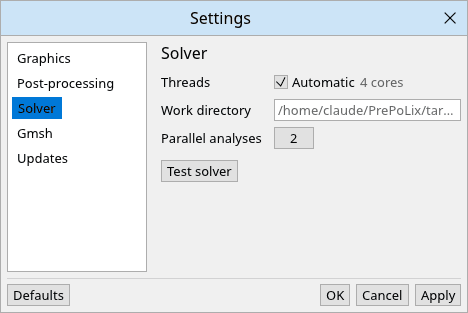
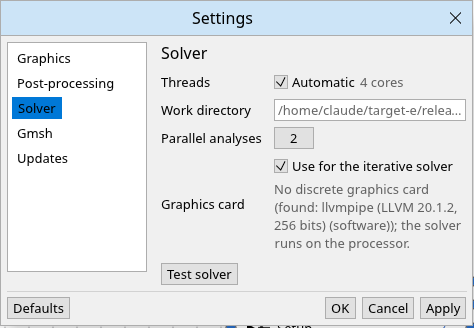
Settings: switch for the graphics card and the card the solver found
Solver page: "Graphics card" with "Use for the iterative solver" (default on)
and, detected once on a thread of its own, the card the automatic mode takes
with its graphics interface and whether the conjugate gradients run on it too
(double precision), or the adapters found when there is no discrete one.

plxs-linalg: GpuMode::set_preferred sets the mode of this process for the solves
started from then on (PLXS_GPU still overrides it); gpu::detect lists the
adapters without opening a device. The app applies the setting at startup and on
OK/Apply. User guide: the new field and the screenshot of the Solver page.

Claude-Session: https://claude.ai/code/session_0117wmBKHrsx9u8wyVGkknNJ

Changed region(s): [[0.0, 0.0, 1.0, 1.0], [0.0, 0.23, 0.2692, 0.5463]]

diff --git a/crates/plx-app/src/settings.rs b/crates/plx-app/src/settings.rs
@@ -139,6 +139,9 @@ pub struct Solver {
     pub work_dir: String,
     /// Most analyses Update Project solves at the same time.
     pub parallel_runs: u32,
+    /// Whether the iterative solver may use a discrete graphics card (it decides by
+    /// itself when, see [`plxs_linalg::GpuMode::Automatic`]).
+    pub gpu: bool,
 }
 
 /// [`Solver::threads`] for as many threads as the computer has cores.
@@ -155,11 +158,21 @@ impl Default for Solver {
             threads: AUTOMATIC_THREADS,
             work_dir: String::new(),
             parallel_runs: 2,
+            gpu: true,
         }
     }
 }
 
 impl Solver {
+    /// Hands [`Self::gpu`] to the solver, for the analyses started from now on.
+    pub fn apply_gpu(&self) {
+        plxs_linalg::GpuMode::set_preferred(if self.gpu {
+            plxs_linalg::GpuMode::Automatic
+        } else {
+            plxs_linalg::GpuMode::Off
+        });
+    }
+
     pub fn work_dir(&self) -> std::path::PathBuf {
         match clean_path(&self.work_dir) {
             "" => default_work_dir(),
@@ -191,6 +204,65 @@ fn threads_ui(ui: &mut egui::Ui, threads: &mut u32) {
             ui.weak(format!("{} cores", cores()));
         } else {
             ui.add(numeric::drag_value(threads).range(1..=256));
+        }
+    });
+}
+
+/// The graphics cards the solver finds, detected once on a thread of its own (a driver
+/// call that can take a moment) when the solver page is first shown.
+fn gpu_detection(ctx: &egui::Context) -> Option<&'static plxs_linalg::gpu::Detection> {
+    static DETECTION: std::sync::OnceLock<plxs_linalg::gpu::Detection> = std::sync::OnceLock::new();
+    static STARTED: std::sync::Once = std::sync::Once::new();
+    STARTED.call_once(|| {
+        let ctx = ctx.clone();
+        std::thread::spawn(move || {
+            let _ = DETECTION.set(plxs_linalg::gpu::detect());
+            ctx.request_repaint();
+        });
+    });
+    DETECTION.get()
+}
+
+/// The switch for the graphics card and what the solver found.
+fn gpu_ui(ui: &mut egui::Ui, gpu: &mut bool) {
+    ui.vertical(|ui| {
+        ui.checkbox(gpu, "Use for the iterative solver").on_hover_text(format!(
+            "Iterative solves of {} equations and more run on a discrete graphics card, which \
+             has many times the memory bandwidth of the processor. The solver takes at most 60 % \
+             of the card's memory and falls back to the processor when the model does not fit. \
+             Integrated graphics share the processor's memory and are not used. Applies to \
+             analyses started from now on.",
+            plxs_linalg::gpu::GPU_FROM
+        ));
+        match gpu_detection(ui.ctx()) {
+            None => {
+                ui.horizontal(|ui| {
+                    ui.spinner();
+                    ui.weak("Detecting graphics cards …");
+                });
+            }
+            Some(found) => match &found.chosen {
+                Some(card) => {
+                    let backend = found.backend.as_deref().unwrap_or("");
+                    let precision = if found.double_precision {
+                        "conjugate gradients and multigrid cycle on the card"
+                    } else {
+                        "multigrid cycle on the card, conjugate gradients on the processor (no double precision)"
+                    };
+                    ui.label(format!("{card}, {backend}"));
+                    ui.weak(precision);
+                }
+                None => {
+                    let found_text = if found.adapters.is_empty() {
+                        "no graphics adapter found".to_owned()
+                    } else {
+                        format!("found: {}", found.adapters.join(", "))
+                    };
+                    ui.weak(format!(
+                        "No discrete graphics card ({found_text}); the solver runs on the processor."
+                    ));
+                }
+            },
         }
     });
 }
@@ -488,6 +560,9 @@ impl SettingsWindow {
                         ui.label("Parallel analyses");
                         ui.add(numeric::drag_value(&mut solver.parallel_runs).range(1..=64))
                             .on_hover_text("Update Project solves up to this many independent analyses at the same time; the Campbell sweep runs as many speeds at a time. The solver runs them in one pool of the threads above, so a single large analysis gets all of them. Each analysis needs its own memory.");
+                        ui.end_row();
+                        ui.label("Graphics card");
+                        gpu_ui(ui, &mut solver.gpu);
                         ui.end_row();
                     });
                 ui.add_space(8.0);

diff --git a/solver/plxs-linalg/src/gpu.rs b/solver/plxs-linalg/src/gpu.rs
@@ -104,6 +104,46 @@ fn describe(info: &wgpu::AdapterInfo) -> String {
     format!("{} ({kind})", info.name)
 }
 
+/// What the solver finds for the graphics card, without opening it: for the settings.
+#[derive(Clone, Debug, Default, PartialEq, Eq)]
+pub struct Detection {
+    /// Every adapter, with its kind, e.g. "NVIDIA GeForce RTX 4070 (discrete)".
+    pub adapters: Vec<String>,
+    /// The adapter the automatic mode would use: the first discrete one.
+    pub chosen: Option<String>,
+    /// Whether the chosen one computes in double precision, so that the conjugate
+    /// gradients run on it too (otherwise only the multigrid cycle).
+    pub double_precision: bool,
+    /// The graphics API the chosen one is driven by (Vulkan, DirectX 12, Metal).
+    pub backend: Option<String>,
+}
+
+/// Lists the graphics adapters and tells which one the automatic mode takes. Cheap
+/// against opening a device, but still a driver call: run it off the user interface.
+pub fn detect() -> Detection {
+    let mut descriptor = wgpu::InstanceDescriptor::new_without_display_handle();
+    descriptor.backends = wgpu::Backends::PRIMARY;
+    let instance = wgpu::Instance::new(descriptor);
+    let adapters = block_on(instance.enumerate_adapters(wgpu::Backends::PRIMARY));
+    let mut detection = Detection {
+        adapters: adapters.iter().map(|a| describe(&a.get_info())).collect(),
+        ..Default::default()
+    };
+    // Vulkan and DirectX list the same card twice.
+    let mut seen = std::collections::HashSet::new();
+    detection.adapters.retain(|a| seen.insert(a.clone()));
+    if let Some(adapter) = adapters
+        .iter()
+        .find(|a| a.get_info().device_type == wgpu::DeviceType::DiscreteGpu)
+    {
+        let info = adapter.get_info();
+        detection.chosen = Some(describe(&info));
+        detection.double_precision = adapter.features().contains(wgpu::Features::SHADER_F64);
+        detection.backend = Some(info.backend.to_str().to_owned());
+    }
+    detection
+}
+
 fn open(any: bool) -> Result<Context, String> {
     let mut descriptor = wgpu::InstanceDescriptor::new_without_display_handle();
     descriptor.backends = wgpu::Backends::PRIMARY;

diff --git a/solver/plxs-linalg/src/amg.rs b/solver/plxs-linalg/src/amg.rs
@@ -91,7 +91,12 @@ pub enum GpuMode {
     On,
 }
 
+/// The mode of [`GpuMode::set_preferred`]: 0 automatic, 1 off, 2 on.
+static PREFERRED: std::sync::atomic::AtomicU8 = std::sync::atomic::AtomicU8::new(0);
+
 impl GpuMode {
+    /// `PLXS_GPU` when set, else the mode the application chose with
+    /// [`Self::set_preferred`] (automatic by default).
     pub fn from_environment() -> Self {
         match std::env::var("PLXS_GPU")
             .map(|v| v.to_ascii_lowercase())
@@ -99,6 +104,25 @@ impl GpuMode {
         {
             Ok("off") | Ok("0") | Ok("no") | Ok("false") => Self::Off,
             Ok("on") | Ok("1") | Ok("yes") | Ok("true") => Self::On,
+            _ => Self::preferred(),
+        }
+    }
+
+    /// The mode for the solves started from now on in this process, unless `PLXS_GPU`
+    /// says otherwise: the setting "Use graphics card" of the application.
+    pub fn set_preferred(mode: GpuMode) {
+        let value = match mode {
+            Self::Automatic => 0,
+            Self::Off => 1,
+            Self::On => 2,
+        };
+        PREFERRED.store(value, std::sync::atomic::Ordering::Relaxed);
+    }
+
+    fn preferred() -> Self {
+        match PREFERRED.load(std::sync::atomic::Ordering::Relaxed) {
+            1 => Self::Off,
+            2 => Self::On,
             _ => Self::Automatic,
         }
     }

diff --git a/crates/plx-app/src/project.rs b/crates/plx-app/src/project.rs
@@ -2015,6 +2015,7 @@ impl ProjectApp {
             .and_then(|s| eframe::get_value(s, settings::STORAGE_KEY))
             .unwrap_or_default();
         settings.upgrade();
+        settings.solver.apply_gpu();
         crate::style::set_theme(&cc.egui_ctx, settings.graphics.theme);
         plx_mesher::set_library_path(settings.gmsh.library());
         let mut app = Self {

diff --git a/crates/plx-app/src/app.rs b/crates/plx-app/src/app.rs
@@ -6124,6 +6124,7 @@ impl Workbench {
             self.output
                 .push("The changed Gmsh library is loaded after a restart".into());
         }
+        new.solver.apply_gpu();
         if new.graphics.theme != self.settings.graphics.theme {
             crate::style::set_theme(ctx, new.graphics.theme);
         }
